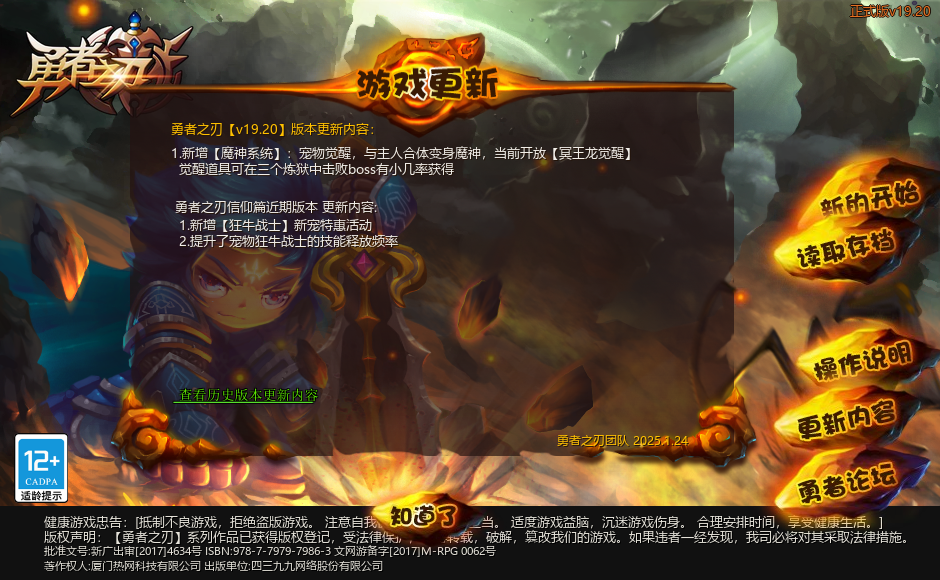
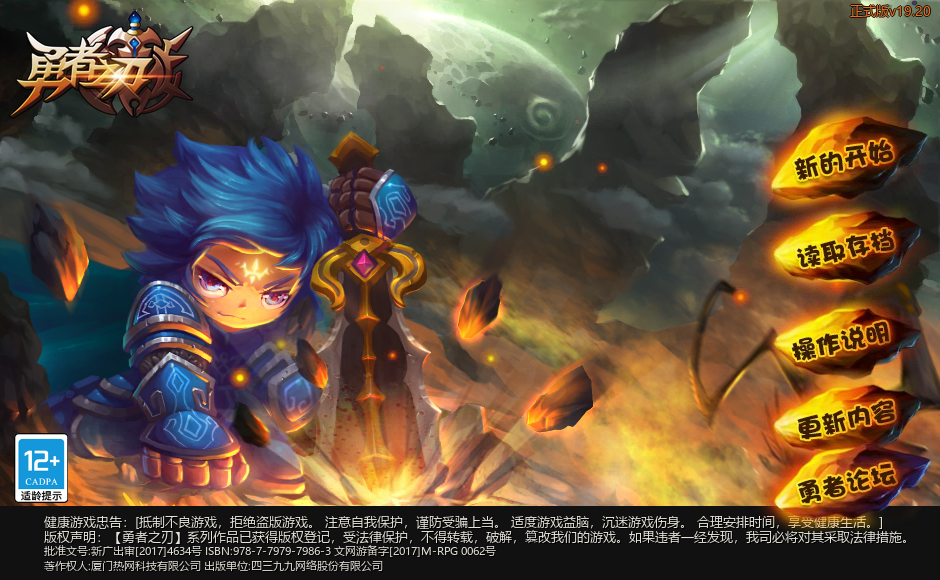
Fix main menu button alignment using native SWF shape offsets

diff --git a/start_screen.py b/start_screen.py
@@ -109,11 +109,11 @@ def _outlined_text(
 class StartScreen:
     """Fixed 940×580 original-style scene, independent of main.py."""
 
-    # Native Flash timeline placement: (button_id, (x, y))
+    # Native Flash timeline placement with Shape Bounds offsets accounted for:
     MENU_BUTTONS = (
-        ("new_game", 7195, (774, 76)),
+        ("new_game", 7195, (748, 35)),
         ("load_game", 7227, (749, 129)),
-        ("instructions", 7257, (771, 238)),
+        ("instructions", 7257, (749, 218)),
         ("updates", 7261, (749, 300)),
         ("forum", 7265, (727, 363)),
     )
